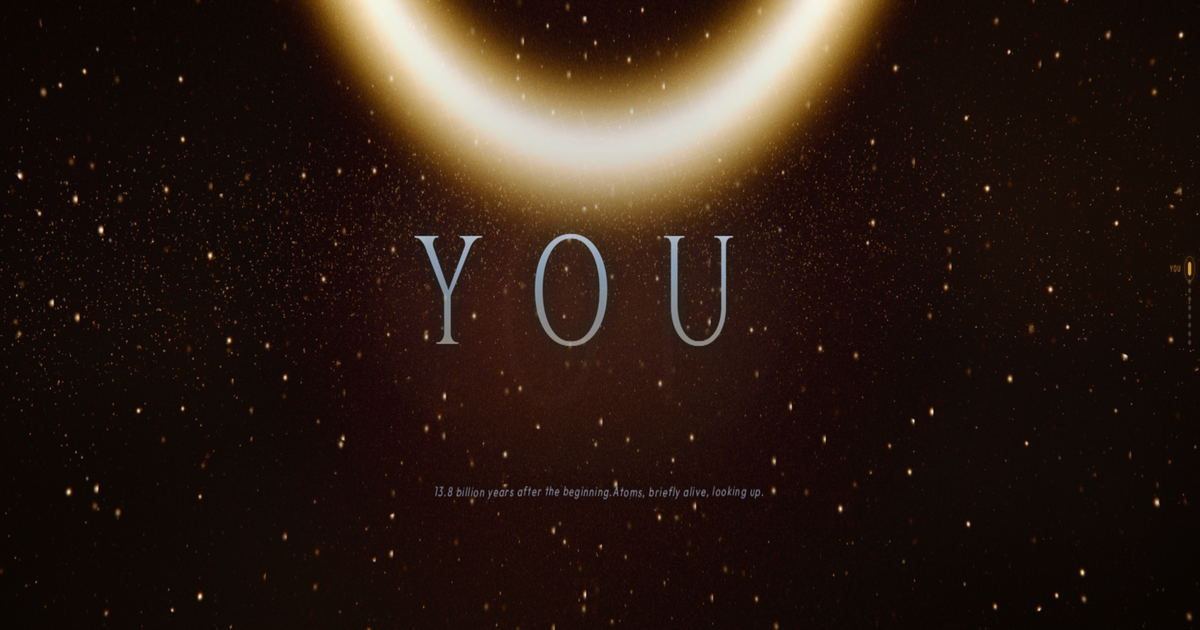
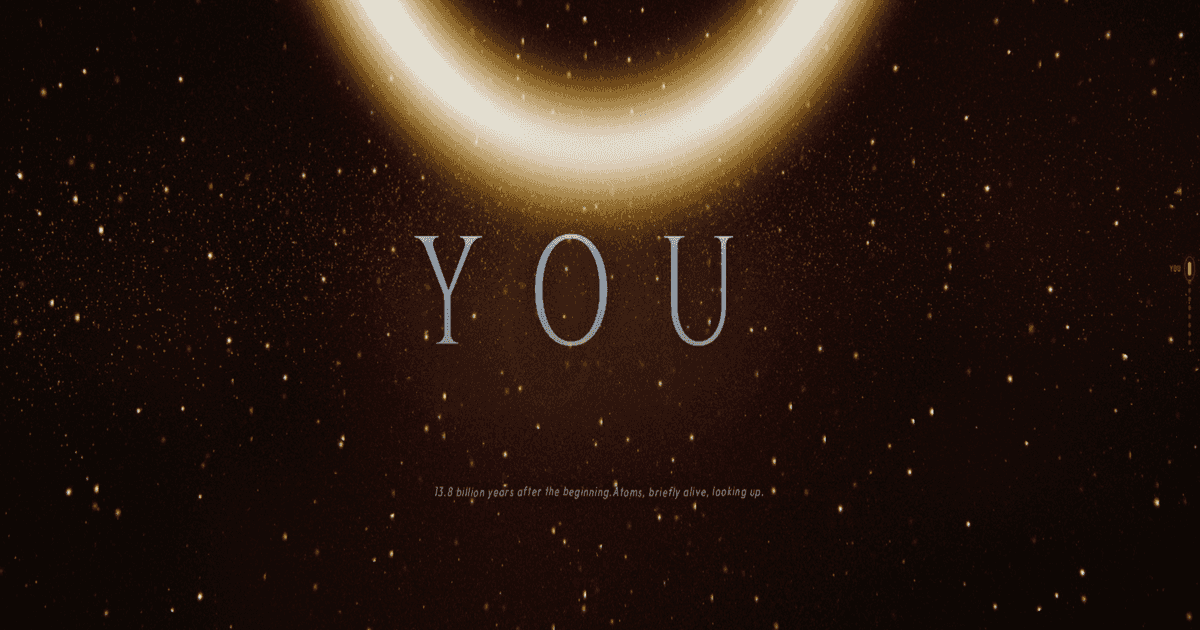
perf: reduced motion support + loading optimizations + OG image compression
- prefers-reduced-motion: JS detection disables motion blur + limits bloom
- CSS reduced-motion blocks on all stylesheets (global, companion, mobile)
- Merged duplicate reduced-motion CSS block, added missing selectors
- DNS prefetch + preconnect for Supabase (companion sync)
- OG image: 1.3 MB → 156 KB (optimized PNG)

diff --git a/src/engine/Experience.ts b/src/engine/Experience.ts
@@ -104,6 +104,7 @@ export class Experience {
   private hudContainerEl: HTMLElement | null = null;
   private creditsEl: HTMLElement | null = null;
   private themeColorMeta: HTMLMetaElement | null = null;
+  private prefersReducedMotion = false;
   private boundHandlers: { target: EventTarget; event: string; handler: EventListener }[] = [];
   private chapterBreaks: number[] = [];
 
@@ -488,6 +489,12 @@ gl_FragColor=vec4(col,1.0);}`;
         ? { dpr: Math.min(window.devicePixelRatio, 1.5), maxSteps: 80, qualityMedium: false, gpgpuTexSize: 192, starfieldCount: 8000, bloomPasses: 3, bloomScale: 0.35, motionBlur: true, antialias: true, gpuScore: 60, quality: 'high' }
         : { dpr: 1.0, maxSteps: 100, qualityMedium: true, gpgpuTexSize: 128, starfieldCount: 3000, bloomPasses: 2, bloomScale: 0.2, motionBlur: true, antialias: true, gpuScore: 25, quality: 'medium' };
     }
+    this.prefersReducedMotion = window.matchMedia('(prefers-reduced-motion: reduce)').matches;
+    if (this.prefersReducedMotion) {
+      this.perfConfig.motionBlur = false;
+      this.perfConfig.bloomPasses = Math.min(this.perfConfig.bloomPasses, 2);
+    }
+
     this.state.quality = this.perfConfig.quality;
     this.adaptiveDpr = this.perfConfig.dpr;
     this.adaptiveMaxSteps = this.perfConfig.maxSteps;

diff --git a/src/styles/global.css b/src/styles/global.css
@@ -3909,10 +3909,18 @@ html.hardcore-mode .corner-ornament {
   }
 
   .cursor-trail,
+  .dust,
   #custom-cursor,
   #custom-cursor-ring,
-  #dust-layer {
+  #dust-layer,
+  #noise-grain {
     display: none !important;
+  }
+
+  #loader-star,
+  #loader-star::before,
+  #loader-star::after {
+    animation: none !important;
   }
 
   #chapter-text .line .char {
@@ -5030,38 +5038,6 @@ html.hardcore-mode .corner-ornament {
     text-shadow: none !important;
     animation: none !important;
     -webkit-text-fill-color: #111 !important;
-  }
-}
-
-@media (prefers-reduced-motion: reduce) {
-  *,
-  *::before,
-  *::after {
-    animation-duration: 0.01ms !important;
-    animation-iteration-count: 1 !important;
-    transition-duration: 0.01ms !important;
-  }
-
-  .dust,
-  .cursor-trail,
-  #custom-cursor,
-  #custom-cursor-ring,
-  #noise-grain {
-    display: none !important;
-  }
-
-  #loader-star {
-    animation: none !important;
-  }
-
-  #loader-star::before,
-  #loader-star::after {
-    animation: none !important;
-  }
-
-  #chapter-text .line .char {
-    animation: none !important;
-    opacity: 1 !important;
   }
 }
 

diff --git a/index.html b/index.html
@@ -44,6 +44,8 @@
     #loader-bar-fill{width:0;height:100%;background:linear-gradient(90deg,#FFB347,#592187);transition:width .3s}
     #loader-pct{font-size:.65rem;margin-top:.5rem;opacity:.4;font-variant-numeric:tabular-nums}
   </style>
+  <link rel="dns-prefetch" href="https://uqqdxumehqmhwotgggqi.supabase.co" />
+  <link rel="preconnect" href="https://uqqdxumehqmhwotgggqi.supabase.co" crossorigin />
   <link rel="preload" href="/fonts/cinzel-latin.woff2" as="font" type="font/woff2" crossorigin />
   <link rel="preload" href="/fonts/outfit-latin.woff2" as="font" type="font/woff2" crossorigin />
   <script type="application/ld+json">

diff --git a/src/companion/companion.css b/src/companion/companion.css
@@ -1056,3 +1056,19 @@
   background: rgba(255, 179, 71, 0.2);
   border-radius: 2px;
 }
+
+/* ─── Reduced Motion ─── */
+
+@media (prefers-reduced-motion: reduce) {
+  *, *::before, *::after {
+    animation-duration: 0.01ms !important;
+    animation-iteration-count: 1 !important;
+    transition-duration: 0.01ms !important;
+  }
+
+  .comp-sparkle,
+  .comp-warp-star,
+  .comp-wait-star {
+    display: none !important;
+  }
+}

diff --git a/src/mobile/mobile-landing.css b/src/mobile/mobile-landing.css
@@ -557,3 +557,13 @@
   line-height: 1.6;
   letter-spacing: 0.03em;
 }
+
+/* ─── Reduced Motion ─── */
+
+@media (prefers-reduced-motion: reduce) {
+  *, *::before, *::after {
+    animation-duration: 0.01ms !important;
+    animation-iteration-count: 1 !important;
+    transition-duration: 0.01ms !important;
+  }
+}
